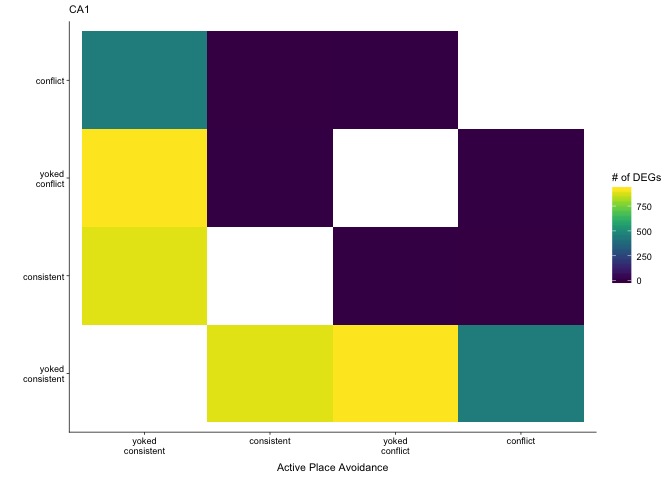
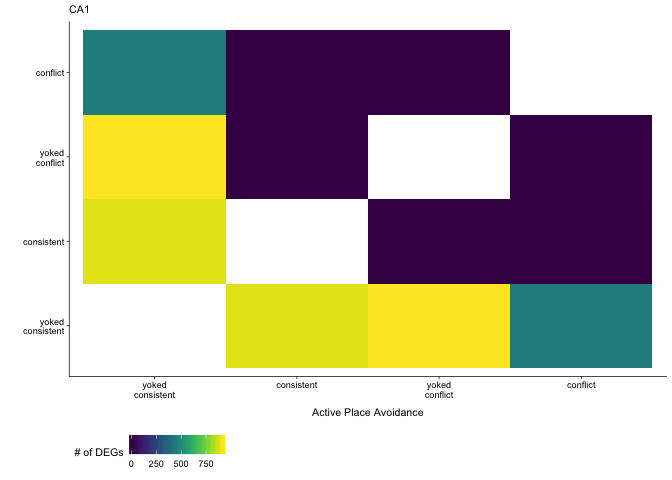
better legend

diff --git a/scripts/02c_rnaseqSubfield.md b/scripts/02c_rnaseqSubfield.md
@@ -1123,7 +1123,8 @@ CA1
       labs(fill = "# of DEGs",
            subtitle = "CA1") +
       #guides(fill=FALSE) + 
-      theme_cowplot(font_size = 8, line_size = 0.25) 
+      theme_cowplot(font_size = 8, line_size = 0.25) +
+      theme(legend.position="bottom")
     CA1heat
 
 ![](../figures/02c_rnaseqSubfield/heatmapsCA1-1.png)
@@ -1140,11 +1141,6 @@ CA1
 
     # three plots no lengend
     allplots <- plot_grid(DGheat, CA3heat, CA1heat, nrow = 1)
-    allplots 
+    allplots  
 
 ![](../figures/02c_rnaseqSubfield/totalDEGs-1.png)
-
-    #three plots with legend 
-    #legend <- get_legend(CA1heat2 + theme(legend.position="bottom"))
-    #p <- plot_grid(allplots, legend, ncol = 1, rel_heights = c(1, .2))
-    #p
